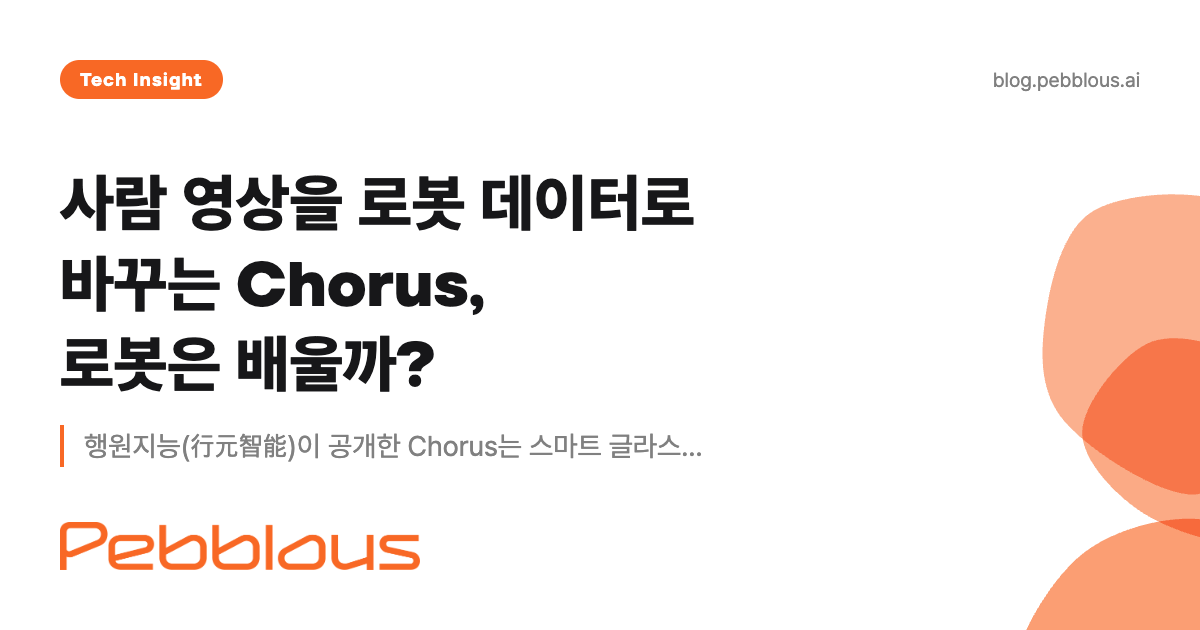
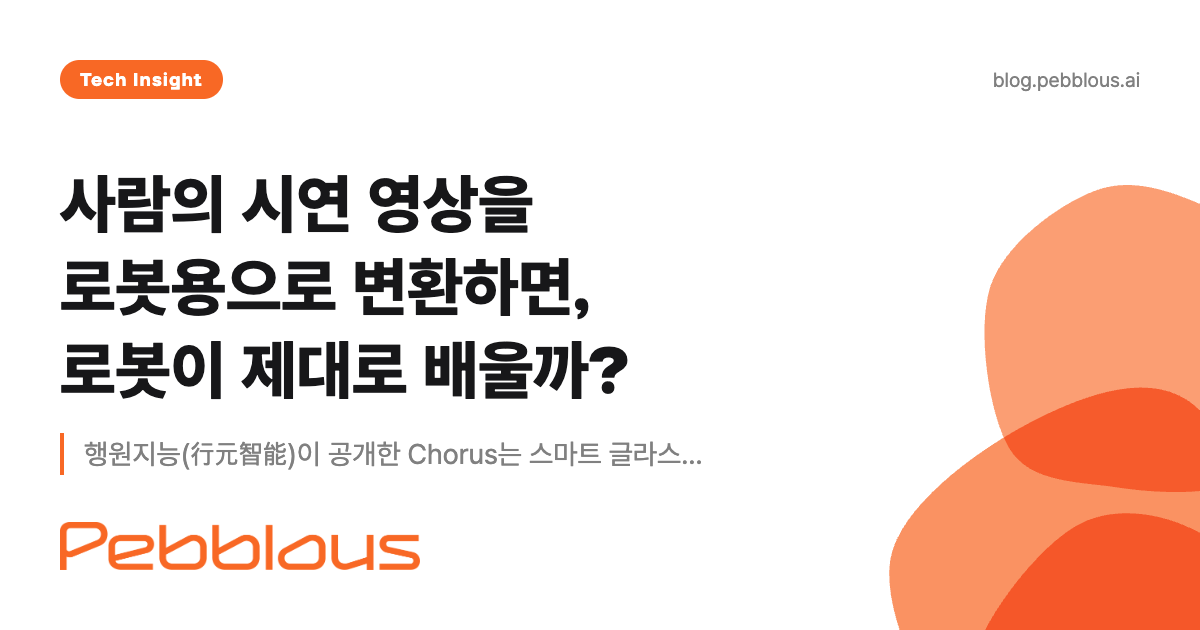
fix(chorus-ko): 제목·부제·Executive Summary 를 지정 문안으로 교체
- mainTitle·og:title·twitter:title·citation_title·사이드카 title = 「사람의 시연 영상을 로봇용으로 변환하면, 로봇이 제대로 배울까?」
- 부제 = 「중국 Action Intelligence 사의 Chorus는 사람 시연 1시간을 16종 로봇의 동작 기록 13.6시간으로 바꿔 준다. 로봇에서의 성능은 아직 비공개다」
- 초록 두 문단을 지정 문안으로 교체, 셋째 문단(「1절부터 7절까지는…8절은 페블러스의 해석이다」) 삭제
- OG 이미지 재생성(1200×630), 원고(index.md) 재추출, changelog 1줄
- pageTitle·<title>·메타·OG 설명·본문 다른 곳·EN 은 그대로

Changed region(s): [[0.74, 0.2714, 1.0, 1.0], [0.0308, 0.2714, 0.5858, 0.6333], [0.0617, 0.6937, 0.5858, 0.754]]

diff --git a/blog/chorus-cross-embodiment-data-engine/ko/index.html b/blog/chorus-cross-embodiment-data-engine/ko/index.html
@@ -25,7 +25,7 @@
 
     <!-- Open Graph -->
     <meta property="og:type" content="article">
-    <meta property="og:title" content="사람 영상을 로봇 데이터로 바꾸는 Chorus, 로봇은 배울까?">
+    <meta property="og:title" content="사람의 시연 영상을 로봇용으로 변환하면, 로봇이 제대로 배울까?">
     <meta property="og:description" content="행원지능(行元智能)이 공개한 Chorus는 스마트 글라스·손목 카메라로 찍은 사람 시연 영상을 로봇 16종의 학습 궤적으로 바꾼다. 선별을 통과한 영상 1시간이 궤적 약 13.6시간이 되지만, 그 데이터로 학습한 로봇의 성능은 원문에 보고되지 않았다.">
     <meta property="og:url" content="https://blog.pebblous.ai/blog/chorus-cross-embodiment-data-engine/ko/">
     <meta property="og:image" content="https://blog.pebblous.ai/blog/chorus-cross-embodiment-data-engine/ko/image/index.png">
@@ -38,7 +38,7 @@
 
     <!-- Twitter Card -->
     <meta name="twitter:card" content="summary_large_image">
-    <meta name="twitter:title" content="사람 영상을 로봇 데이터로 바꾸는 Chorus, 로봇은 배울까?">
+    <meta name="twitter:title" content="사람의 시연 영상을 로봇용으로 변환하면, 로봇이 제대로 배울까?">
     <meta name="twitter:description" content="행원지능(行元智能)이 공개한 Chorus는 스마트 글라스·손목 카메라로 찍은 사람 시연 영상을 로봇 16종의 학습 궤적으로 바꾼다. 선별을 통과한 영상 1시간이 궤적 약 13.6시간이 되지만, 그 데이터로 학습한 로봇의 성능은 원문에 보고되지 않았다.">
     <meta name="twitter:image" content="https://blog.pebblous.ai/blog/chorus-cross-embodiment-data-engine/ko/image/index.png">
     <meta name="twitter:image:alt" content="사람 시연 영상을 로봇 학습 데이터로 바꾸는 Chorus를 소개하는 표지 이미지">
@@ -51,7 +51,7 @@
     <link rel="apple-touch-icon" href="/image/Pebblous_BM_Orange_RGB.png">
 
     <!-- Google Scholar -->
-    <meta name="citation_title" content="사람 영상을 로봇 데이터로 바꾸는 Chorus, 로봇은 배울까?">
+    <meta name="citation_title" content="사람의 시연 영상을 로봇용으로 변환하면, 로봇이 제대로 배울까?">
     <meta name="citation_author" content="Pebblous Data Communication Team">
     <meta name="citation_publication_date" content="2026/11/17">
     <meta name="citation_online_date" content="2026/11/17">
@@ -115,13 +115,10 @@
                     <h2 class="text-3xl font-bold themeable-heading mb-8">Executive Summary</h2>
                     <div class="key-insight">
                         <p class="themeable-text leading-relaxed">
-                            사람이 스마트 글라스나 손목 카메라로 찍은 작업 영상을 로봇 16종이 따라 할 수 있는 궤적으로 바꾸는 데이터 엔진이 공개됐다. 중국의 로봇 기초 모델 회사 행원지능(行元智能, Action Intelligence)이 10월 26일 연구 페이지에 올린 Chorus(코러스)다. 장비마다 다른 영상을 작업 의미와 공간 운동이라는 하나의 중간 표현으로 모은 뒤, 그 표현을 로봇마다 그 몸에 맞게 옮겨 학습 데이터로 바꾼다.
+                            사람이 스마트 글라스나 손목 카메라로 찍은 작업 영상을 로봇 16종이 따라 할 수 있는 궤적으로 바꾸는 데이터 엔진이 공개됐다. 중국의 로봇 파운데이션 모델 회사 Action Intelligence(행원지능, 行元智能)이 10월 26일 연구 페이지에 올린 Chorus(코러스)다. 장비마다 다른 영상을 작업 의미와 공간 운동이라는 하나의 중간 표현으로 모은 뒤, 그 표현을 로봇마다 그 몸에 맞게 옮겨 학습 데이터로 바꾼다.
                         </p>
                         <p class="themeable-text leading-relaxed mt-4">
-                            회사가 내놓은 수치의 중심은 변환율이다. 선별을 통과한 사람 영상 1시간이 로봇 16종에 걸쳐 평균 85%의 비율로 변환되면서 약 13.6시간의 궤적이 된다. 영상 한 편을 열여섯 번 쓰는 셈이라 궤적 1시간당 처리 비용도 그만큼 내려간다. 다만 이렇게 만든 데이터로 학습한 로봇이 실제로 더 잘하게 됐는지를 보여 주는 수치는 원문에 한 줄도 없다.
-                        </p>
-                        <p class="themeable-text leading-relaxed mt-4">
-                            1절부터 7절까지는 원문과 1차 출처에 적힌 내용이다. 8절은 페블러스의 해석이다.
+                            회사가 공개한 수치는 주로 변환율이다. 선별을 통과한 사람 영상 1시간이 로봇 16종에 걸쳐 평균 85%의 비율로 변환되면서 약 13.6시간의 궤적 데이터가 된다. 영상 한 편을 열여섯 번 쓰는 셈이라 궤적 1시간당 처리 비용도 그만큼 내려간다. 다만 이렇게 만든 데이터로 학습한 로봇이 실제로 더 잘하게 됐는지를 보여 주는 수치는 아직 없다.
                         </p>
                     </div>
 
@@ -670,8 +667,8 @@
               },
               "recordedAt": "2026-11-17T13:47:24.990Z"
             },
-            mainTitle: "사람 영상을 로봇 데이터로 바꾸는 Chorus, 로봇은 배울까?",
-            subtitle: "행원지능의 Chorus는 사람 시연 1시간을 16종 로봇의 동작 기록 13.6시간으로 바꾸지만, 로봇 성적은 아직 비공개다",
+            mainTitle: "사람의 시연 영상을 로봇용으로 변환하면, 로봇이 제대로 배울까?",
+            subtitle: "중국 Action Intelligence 사의 Chorus는 사람 시연 1시간을 16종 로봇의 동작 기록 13.6시간으로 바꿔 준다. 로봇에서의 성능은 아직 비공개다",
             pageTitle: "Chorus란? — 사람 영상을 로봇 데이터로 바꾸는 엔진 분석과 유사 기술 5종 비교 | 페블러스",
             category: "tech",
             publishDate: "2026-11-17",

diff --git a/blog/chorus-cross-embodiment-data-engine/ko/index.md b/blog/chorus-cross-embodiment-data-engine/ko/index.md
@@ -1,24 +1,22 @@
 ---
-title: 사람 영상을 로봇 데이터로 바꾸는 Chorus, 로봇은 배울까?
-subtitle: 행원지능의 Chorus는 사람 시연 1시간을 16종 로봇의 동작 기록 13.6시간으로 바꾸지만, 로봇 성적은 아직 비공개다
+title: 사람의 시연 영상을 로봇용으로 변환하면, 로봇이 제대로 배울까?
+subtitle: 중국 Action Intelligence 사의 Chorus는 사람 시연 1시간을 16종 로봇의 동작 기록 13.6시간으로 바꿔 준다. 로봇에서의 성능은 아직 비공개다
 date: 2026-11-17
 category: tech
 source: index.html
 note: HTML-중립 본문 원고(자동 역추출). 출간 후 본문 수정은 이 파일에서.
 ---
 
-# 사람 영상을 로봇 데이터로 바꾸는 Chorus, 로봇은 배울까?
+# 사람의 시연 영상을 로봇용으로 변환하면, 로봇이 제대로 배울까?
 
-_행원지능의 Chorus는 사람 시연 1시간을 16종 로봇의 동작 기록 13.6시간으로 바꾸지만, 로봇 성적은 아직 비공개다_
+_중국 Action Intelligence 사의 Chorus는 사람 시연 1시간을 16종 로봇의 동작 기록 13.6시간으로 바꿔 준다. 로봇에서의 성능은 아직 비공개다_
 
 ## Executive Summary
 
 > [!callout]
-> 사람이 스마트 글라스나 손목 카메라로 찍은 작업 영상을 로봇 16종이 따라 할 수 있는 궤적으로 바꾸는 데이터 엔진이 공개됐다. 중국의 로봇 기초 모델 회사 행원지능(行元智能, Action Intelligence)이 10월 26일 연구 페이지에 올린 Chorus(코러스)다. 장비마다 다른 영상을 작업 의미와 공간 운동이라는 하나의 중간 표현으로 모은 뒤, 그 표현을 로봇마다 그 몸에 맞게 옮겨 학습 데이터로 바꾼다.
+> 사람이 스마트 글라스나 손목 카메라로 찍은 작업 영상을 로봇 16종이 따라 할 수 있는 궤적으로 바꾸는 데이터 엔진이 공개됐다. 중국의 로봇 파운데이션 모델 회사 Action Intelligence(행원지능, 行元智能)이 10월 26일 연구 페이지에 올린 Chorus(코러스)다. 장비마다 다른 영상을 작업 의미와 공간 운동이라는 하나의 중간 표현으로 모은 뒤, 그 표현을 로봇마다 그 몸에 맞게 옮겨 학습 데이터로 바꾼다.
 
-> 회사가 내놓은 수치의 중심은 변환율이다. 선별을 통과한 사람 영상 1시간이 로봇 16종에 걸쳐 평균 85%의 비율로 변환되면서 약 13.6시간의 궤적이 된다. 영상 한 편을 열여섯 번 쓰는 셈이라 궤적 1시간당 처리 비용도 그만큼 내려간다. 다만 이렇게 만든 데이터로 학습한 로봇이 실제로 더 잘하게 됐는지를 보여 주는 수치는 원문에 한 줄도 없다.
-
-> 1절부터 7절까지는 원문과 1차 출처에 적힌 내용이다. 8절은 페블러스의 해석이다.
+> 회사가 공개한 수치는 주로 변환율이다. 선별을 통과한 사람 영상 1시간이 로봇 16종에 걸쳐 평균 85%의 비율로 변환되면서 약 13.6시간의 궤적 데이터가 된다. 영상 한 편을 열여섯 번 쓰는 셈이라 궤적 1시간당 처리 비용도 그만큼 내려간다. 다만 이렇게 만든 데이터로 학습한 로봇이 실제로 더 잘하게 됐는지를 보여 주는 수치는 아직 없다.
 
 ### 주요 수치
 
